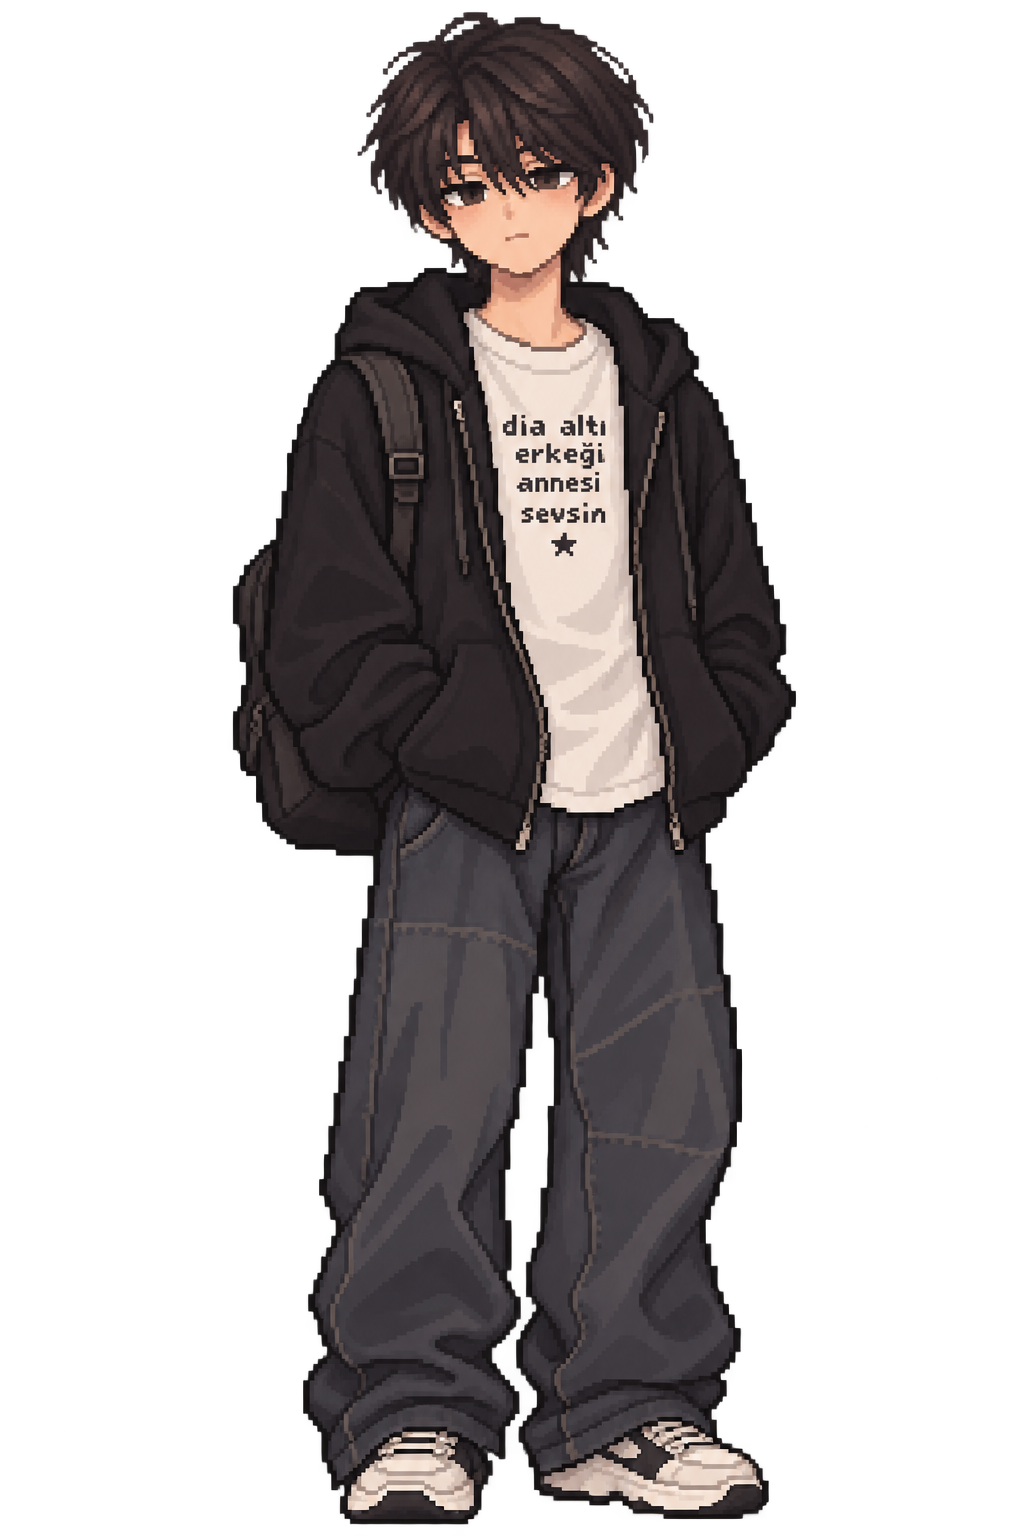
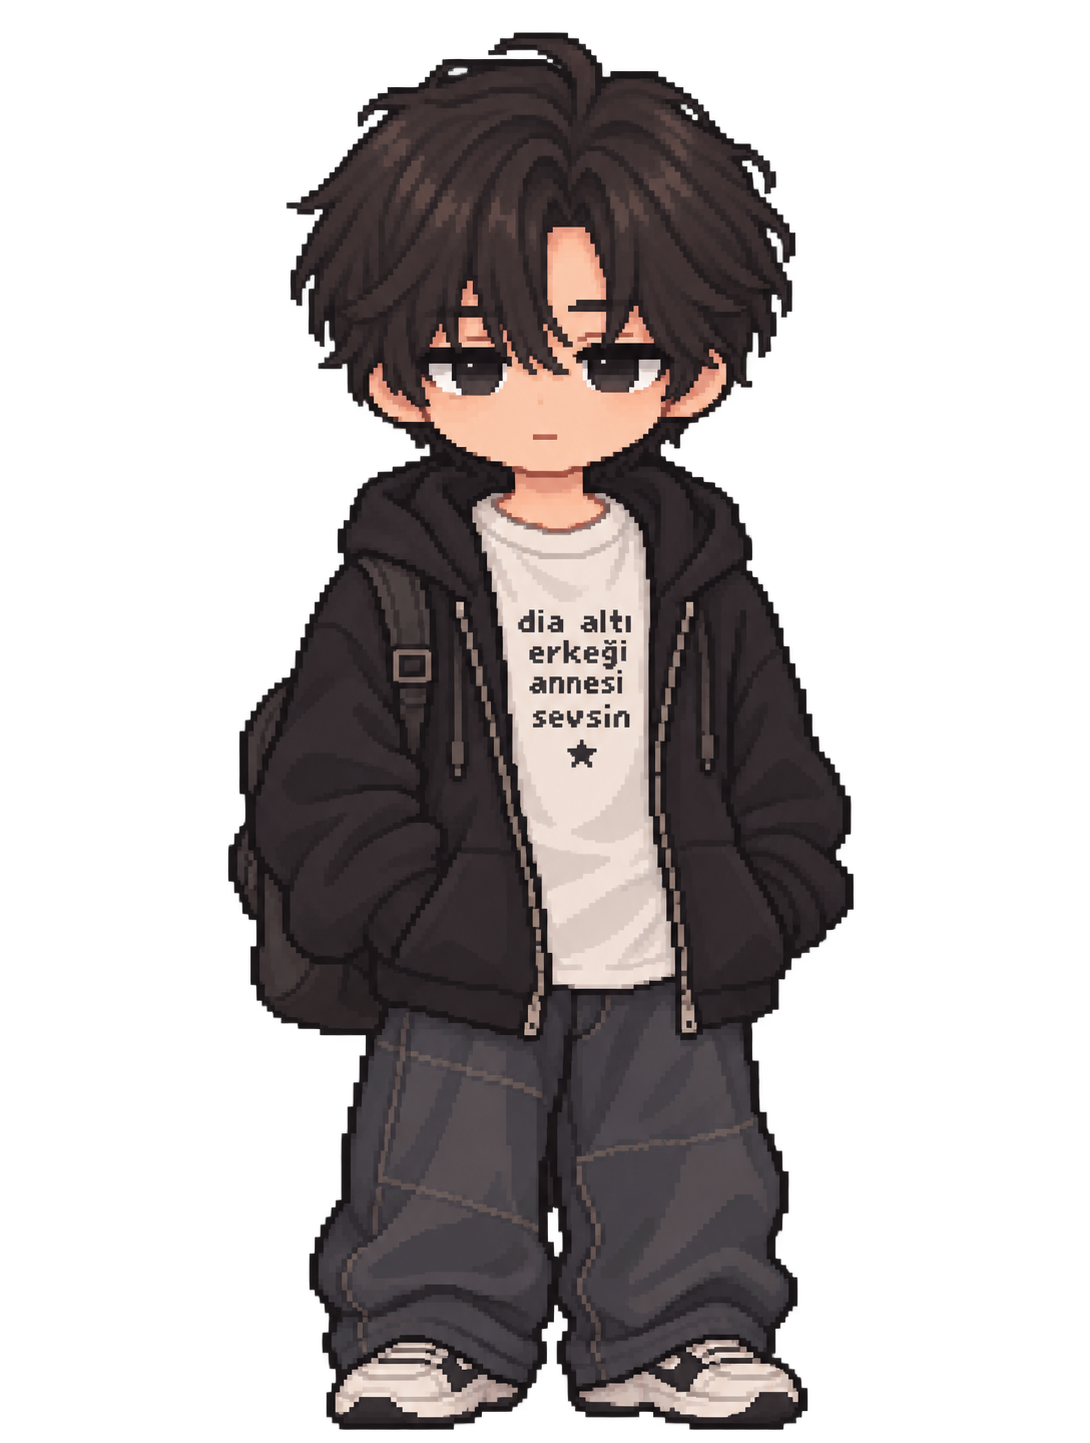
Place Scene 7 cast on open cafe floor and rescale Beomgyu Tyunning

Changed region(s): [[0.1875, 0.0, 0.7812, 0.9979]]

diff --git a/src/game/data/scene07.js b/src/game/data/scene07.js
@@ -5,7 +5,7 @@ import {
 } from './characterScale'
 
 /** Shared visible height in Scene 7 (cafe floor, not PNG canvas). */
-export const SCENE7_VISIBLE_HEIGHT = 198
+export const SCENE7_VISIBLE_HEIGHT = 176
 
 function sc(alphaH) {
   return scaleForVisibleHeight(alphaH, SCENE7_VISIBLE_HEIGHT)
@@ -35,8 +35,8 @@ export const SCENE_07 = {
   sude: {
     textureKey: 'sude-color-down',
     texturePath: 'assets/characters/sude/sude-color-down.png',
-    x: 640,
-    y: 720,
+    x: 560,
+    y: 745,
     scale: scaleForVisibleHeight(VISIBLE_ALPHA_HEIGHT.sude, SCENE7_VISIBLE_HEIGHT),
     originY: CHAR_ORIGIN_Y.sude,
   },
@@ -47,8 +47,8 @@ export const SCENE_07 = {
       letterName: 'DUYGU MEKTUP',
       textureKey: 'family-duygu',
       texturePath: 'assets/characters/family/duygu.png',
-      x: 500,
-      y: 675,
+      x: 490,
+      y: 690,
       scale: sc(VISIBLE_ALPHA_HEIGHT.familyDuygu),
       originY: 0.981,
     },
@@ -58,7 +58,7 @@ export const SCENE_07 = {
       textureKey: 'family-yurin',
       texturePath: 'assets/characters/family/yurin.png',
       x: 430,
-      y: 600,
+      y: 620,
       scale: sc(VISIBLE_ALPHA_HEIGHT.familyYurin),
       originY: 0.983,
     },
@@ -67,8 +67,8 @@ export const SCENE_07 = {
       letterName: 'BURÇE MEKTUP',
       textureKey: 'family-burce',
       texturePath: 'assets/characters/family/burce.png',
-      x: 505,
-      y: 535,
+      x: 520,
+      y: 560,
       scale: sc(VISIBLE_ALPHA_HEIGHT.familyBurce),
       originY: 0.984,
     },
@@ -77,8 +77,8 @@ export const SCENE_07 = {
       letterName: 'DİLARA MEKTUP',
       textureKey: 'family-dilara',
       texturePath: 'assets/characters/family/dilara.png',
-      x: 655,
-      y: 498,
+      x: 640,
+      y: 530,
       scale: sc(VISIBLE_ALPHA_HEIGHT.familyDilara),
       originY: 0.98,
     },
@@ -87,8 +87,8 @@ export const SCENE_07 = {
       letterName: 'ZERA MEKTUP',
       textureKey: 'family-zera',
       texturePath: 'assets/characters/family/zera.png',
-      x: 880,
-      y: 498,
+      x: 860,
+      y: 530,
       scale: sc(VISIBLE_ALPHA_HEIGHT.familyZera),
       originY: 0.951,
     },
@@ -97,8 +97,8 @@ export const SCENE_07 = {
       letterName: 'SEVDE MEKTUP',
       textureKey: 'family-sevde',
       texturePath: 'assets/characters/family/sevde.png',
-      x: 1030,
-      y: 535,
+      x: 980,
+      y: 560,
       scale: sc(VISIBLE_ALPHA_HEIGHT.familySevde),
       originY: 0.965,
     },
@@ -107,28 +107,18 @@ export const SCENE_07 = {
       letterName: 'İREM MEKTUP',
       textureKey: 'family-irem',
       texturePath: 'assets/characters/family/irem.png',
-      x: 1105,
-      y: 600,
+      x: 1035,
+      y: 620,
       scale: sc(VISIBLE_ALPHA_HEIGHT.familyIrem),
       originY: 0.941,
-    },
-    {
-      id: 'soobin',
-      letterName: null,
-      textureKey: 'soobin-down',
-      texturePath: 'assets/characters/soobin/soobin-down.png',
-      x: 1035,
-      y: 675,
-      scale: sc(VISIBLE_ALPHA_HEIGHT.soobinNormal),
-      originY: 0.999,
     },
     {
       id: 'yeonjun',
       letterName: null,
       textureKey: 'yeonjun-noona-down',
       texturePath: 'assets/characters/yeonjun/yeonjun-noona-down.png',
-      x: 895,
-      y: 720,
+      x: 720,
+      y: 745,
       scale: sc(VISIBLE_ALPHA_HEIGHT.yeonjun),
       originY: 0.959,
     },
@@ -137,20 +127,30 @@ export const SCENE_07 = {
       letterName: null,
       textureKey: 'family-tyunning',
       texturePath: 'assets/characters/family/tyunning.png',
-      x: 960,
-      y: 700,
+      x: 850,
+      y: 745,
       scale: sc(VISIBLE_ALPHA_HEIGHT.familyTyunning),
-      originY: 0.988,
+      originY: 0.984,
+    },
+    {
+      id: 'soobin',
+      letterName: null,
+      textureKey: 'soobin-down',
+      texturePath: 'assets/characters/soobin/soobin-down.png',
+      x: 970,
+      y: 745,
+      scale: sc(VISIBLE_ALPHA_HEIGHT.soobinNormal),
+      originY: 0.999,
     },
     {
       id: 'beomgyu',
       letterName: null,
       textureKey: 'family-beomgyu',
       texturePath: 'assets/characters/family/beomgyu.png',
-      x: 1155,
-      y: 705,
+      x: 1065,
+      y: 745,
       scale: sc(VISIBLE_ALPHA_HEIGHT.familyBeomgyu),
-      originY: 0.993,
+      originY: 0.991,
     },
   ],
 

diff --git a/src/game/data/characterScale.js b/src/game/data/characterScale.js
@@ -29,8 +29,8 @@ export const VISIBLE_ALPHA_HEIGHT = {
   familyZera: 1275,
   familySevde: 1270,
   familyIrem: 1165,
-  familyBeomgyu: 1514,
-  familyTyunning: 1295,
+  familyBeomgyu: 1398,
+  familyTyunning: 1283,
   chestClose: 557,
   chestOpen: 740,
 }
